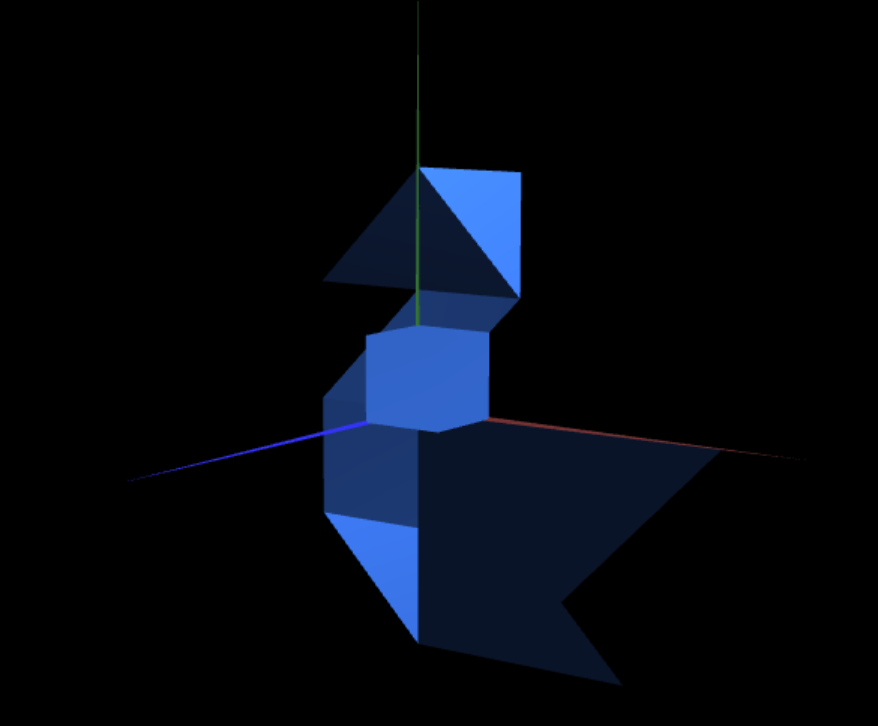
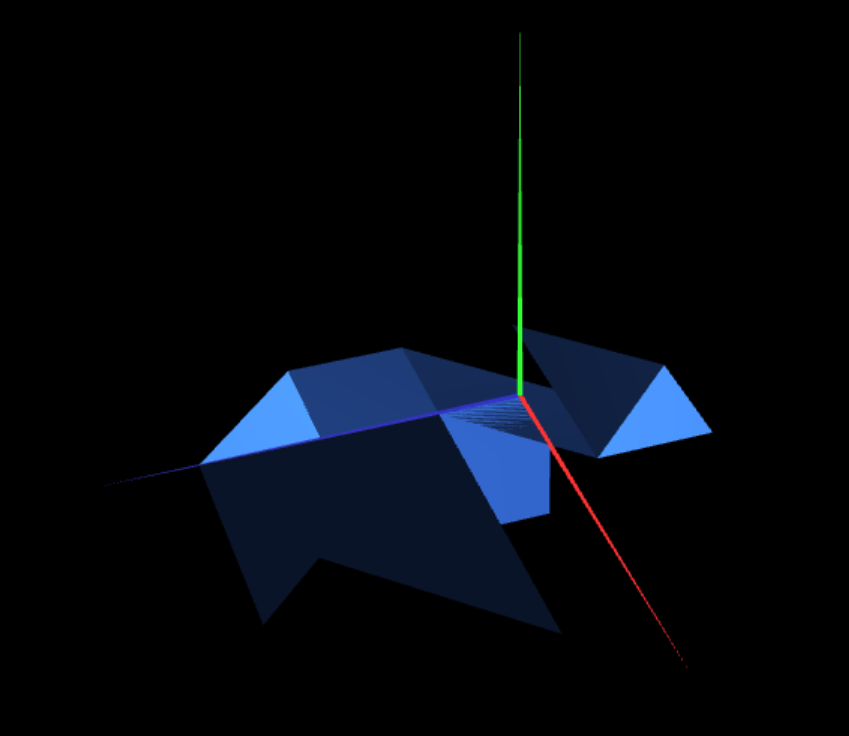
update exercise 2 tp2

Changed region(s): [[0.1531, 0.1515, 0.8575, 0.9394], [0.7656, 0.8182, 0.7962, 0.8788], [0.735, 0.7576, 0.7656, 0.8182]]

diff --git a/tp2/MyTangran.js b/tp2/MyTangran.js
@@ -4,6 +4,9 @@ import { MyTriangle } from "./MyTriangle.js"
 import { MyParallelogram } from "./MyParallelogram.js";
 import { MyTriangleSmall } from "./MyTriangleSmall.js";
 import { MyTriangleBig } from "./MyTriangleBig.js";
+import { MyUnitCube } from "./MyUnitCube.js";
+import { MyUnitCubeQuad } from './MyUnitCubeQuad.js';
+
 /**
  * MyDiamond
  * @constructor
@@ -19,6 +22,8 @@ export class MyTangran extends CGFobject {
         this.parallellogram = new MyParallelogram(scene);
         this.triangleSmall = new MyTriangleSmall(scene);
         this.triangleBig = new MyTriangleBig(scene);
+        this.unitCube = new MyUnitCube(scene);
+        //this.unitCubeQuad = new MyUnitCubeQuad(scene);
 	}
 	
 	
@@ -87,6 +92,18 @@ export class MyTangran extends CGFobject {
             this.scene.rotate(3 * Math.PI / 4, 0, 0, 1);
             this.triangleBig.display();
             this.scene.popMatrix();
+
+            this.scene.pushMatrix();
+            this.scene.translate(0.5, 0.5, -0.5);
+            this.unitCube.display();
+            this.scene.popMatrix();
+
+            /*
+            this.scene.pushMatrix();
+            this.scene.translate(0.5, 0.5, -0.5);
+            this.unitCubeQuad.display();
+            this.scene.popMatrix();
+            */
         }
     }
 }

diff --git a/tp2/MyScene.js b/tp2/MyScene.js
@@ -108,7 +108,12 @@ export class MyScene extends CGFscene {
     this.multMatrix(sca);
 
     // ---- BEGIN Primitive drawing section
+    this.pushMatrix();
+    this.translate(0, 0, 1);
+    this.rotate(-Math.PI/2, 1, 0, 0);
     this.tangran.display();
+    this.popMatrix();
+    
     
     /*
     if (this.displayUnitCube) {
@@ -117,10 +122,6 @@ export class MyScene extends CGFscene {
       this.unitCube.display();
     } */
     
-    this.pushMatrix();
-    this.translate(0.5, 0.5, 0.5);
-    this.unitCubeQuad.display();
-    this.popMatrix();
 
     // ---- END Primitive drawing section
   }
